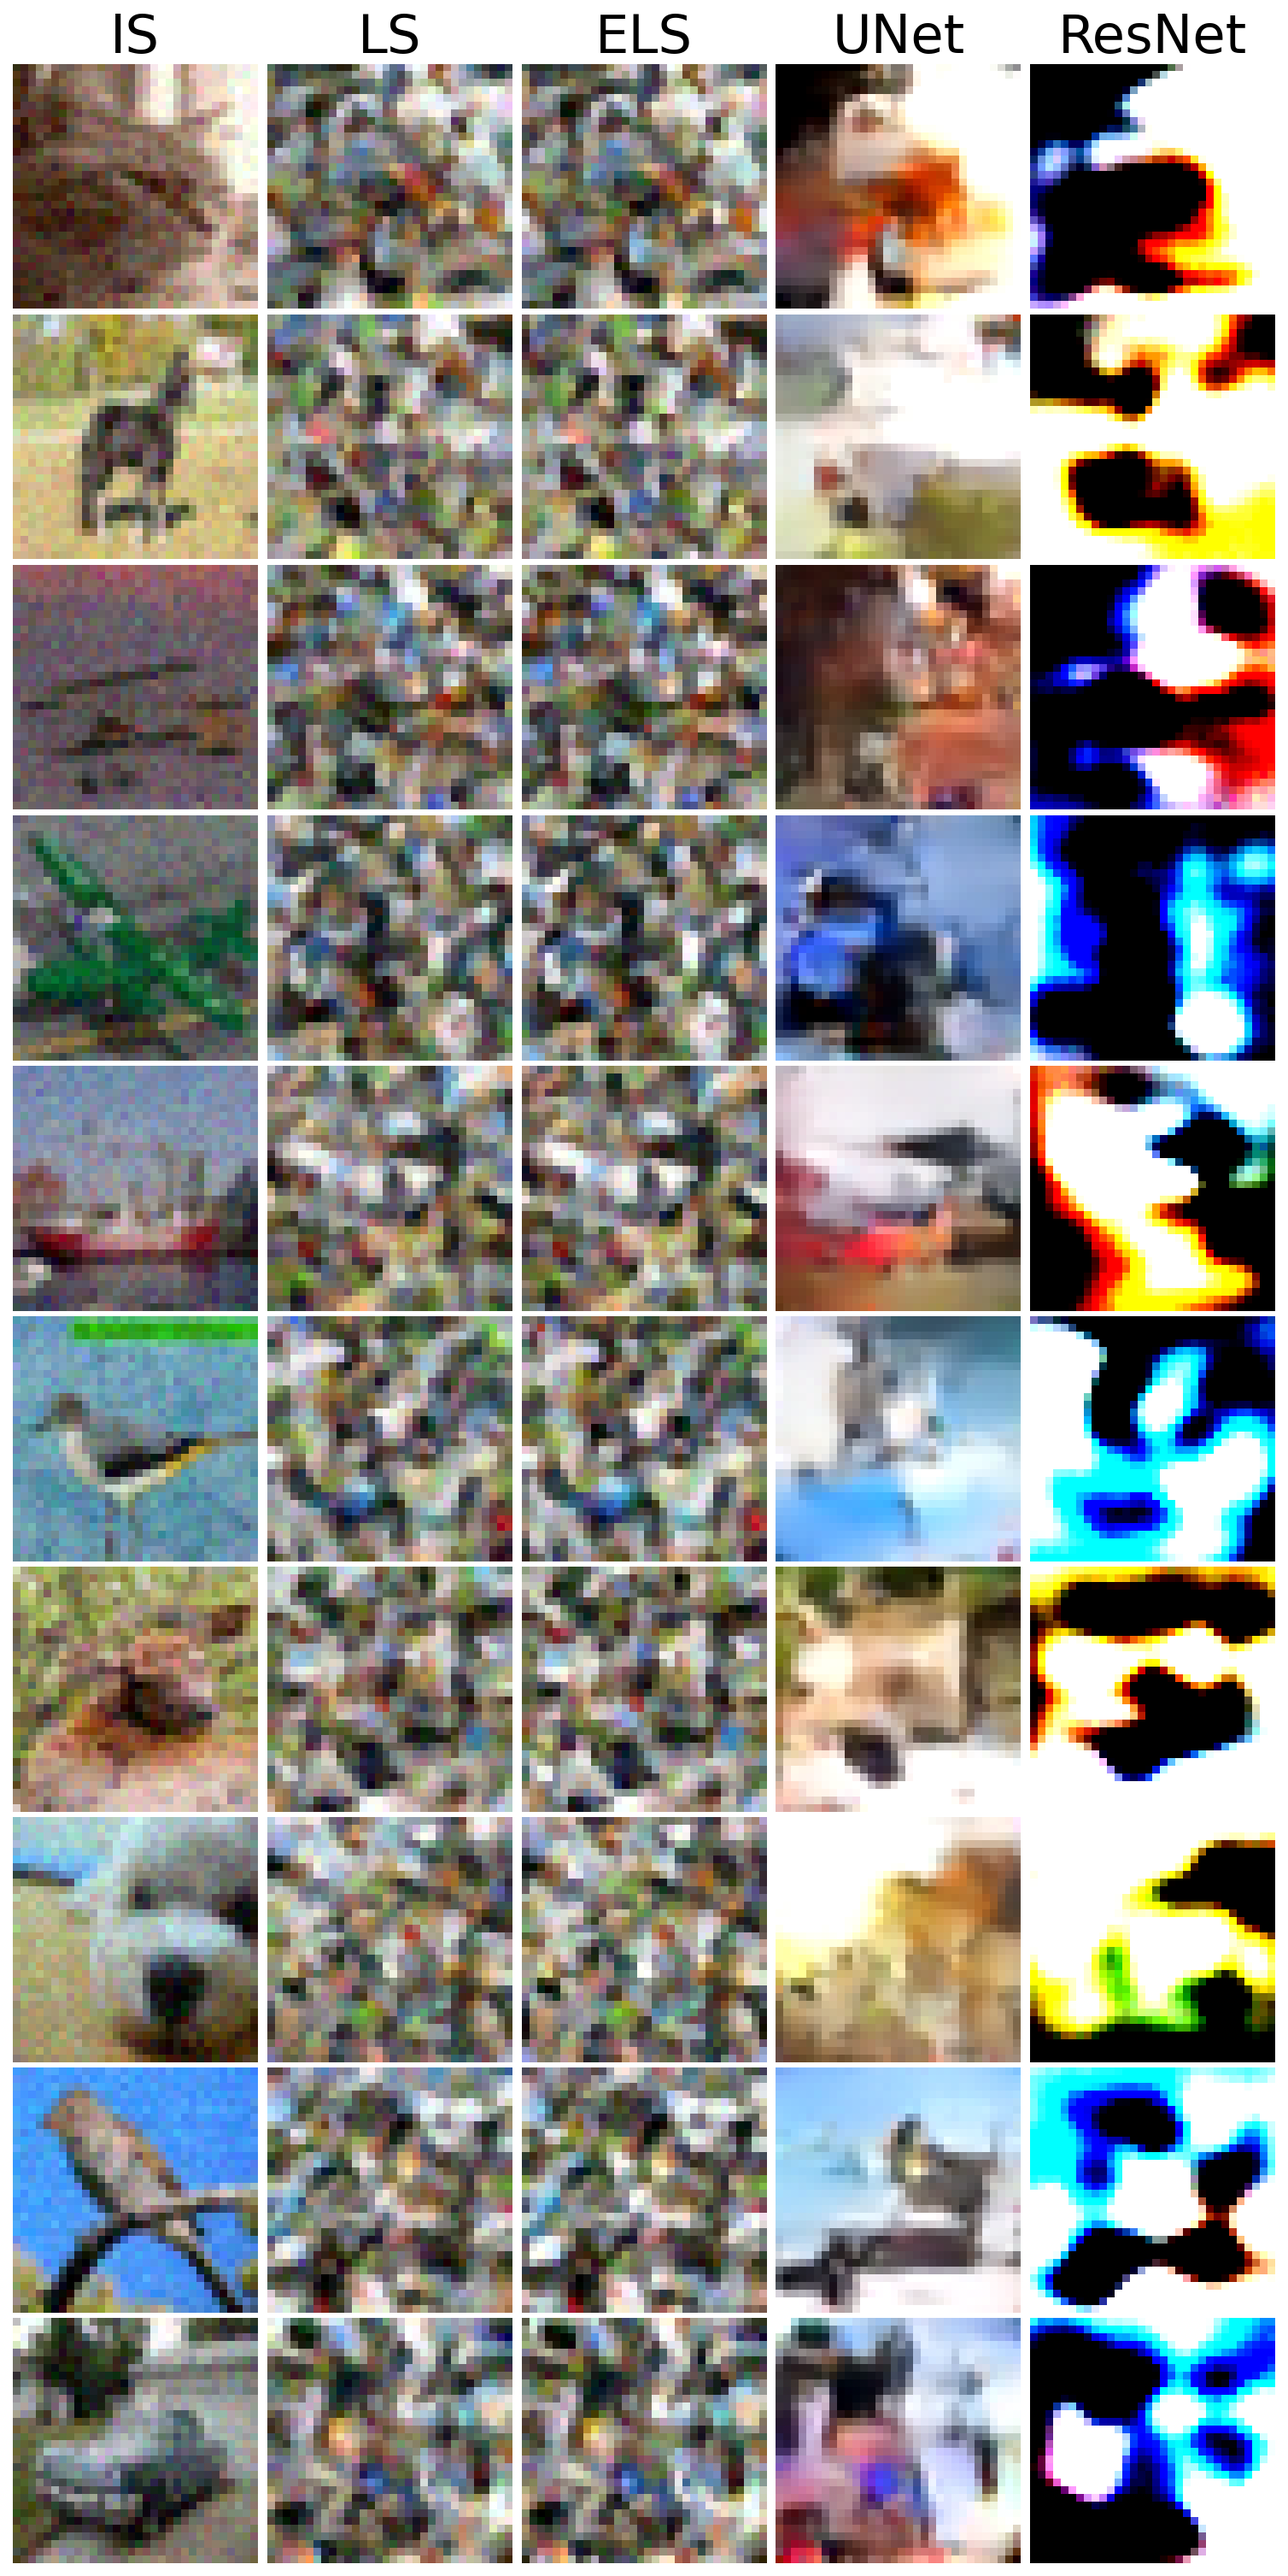
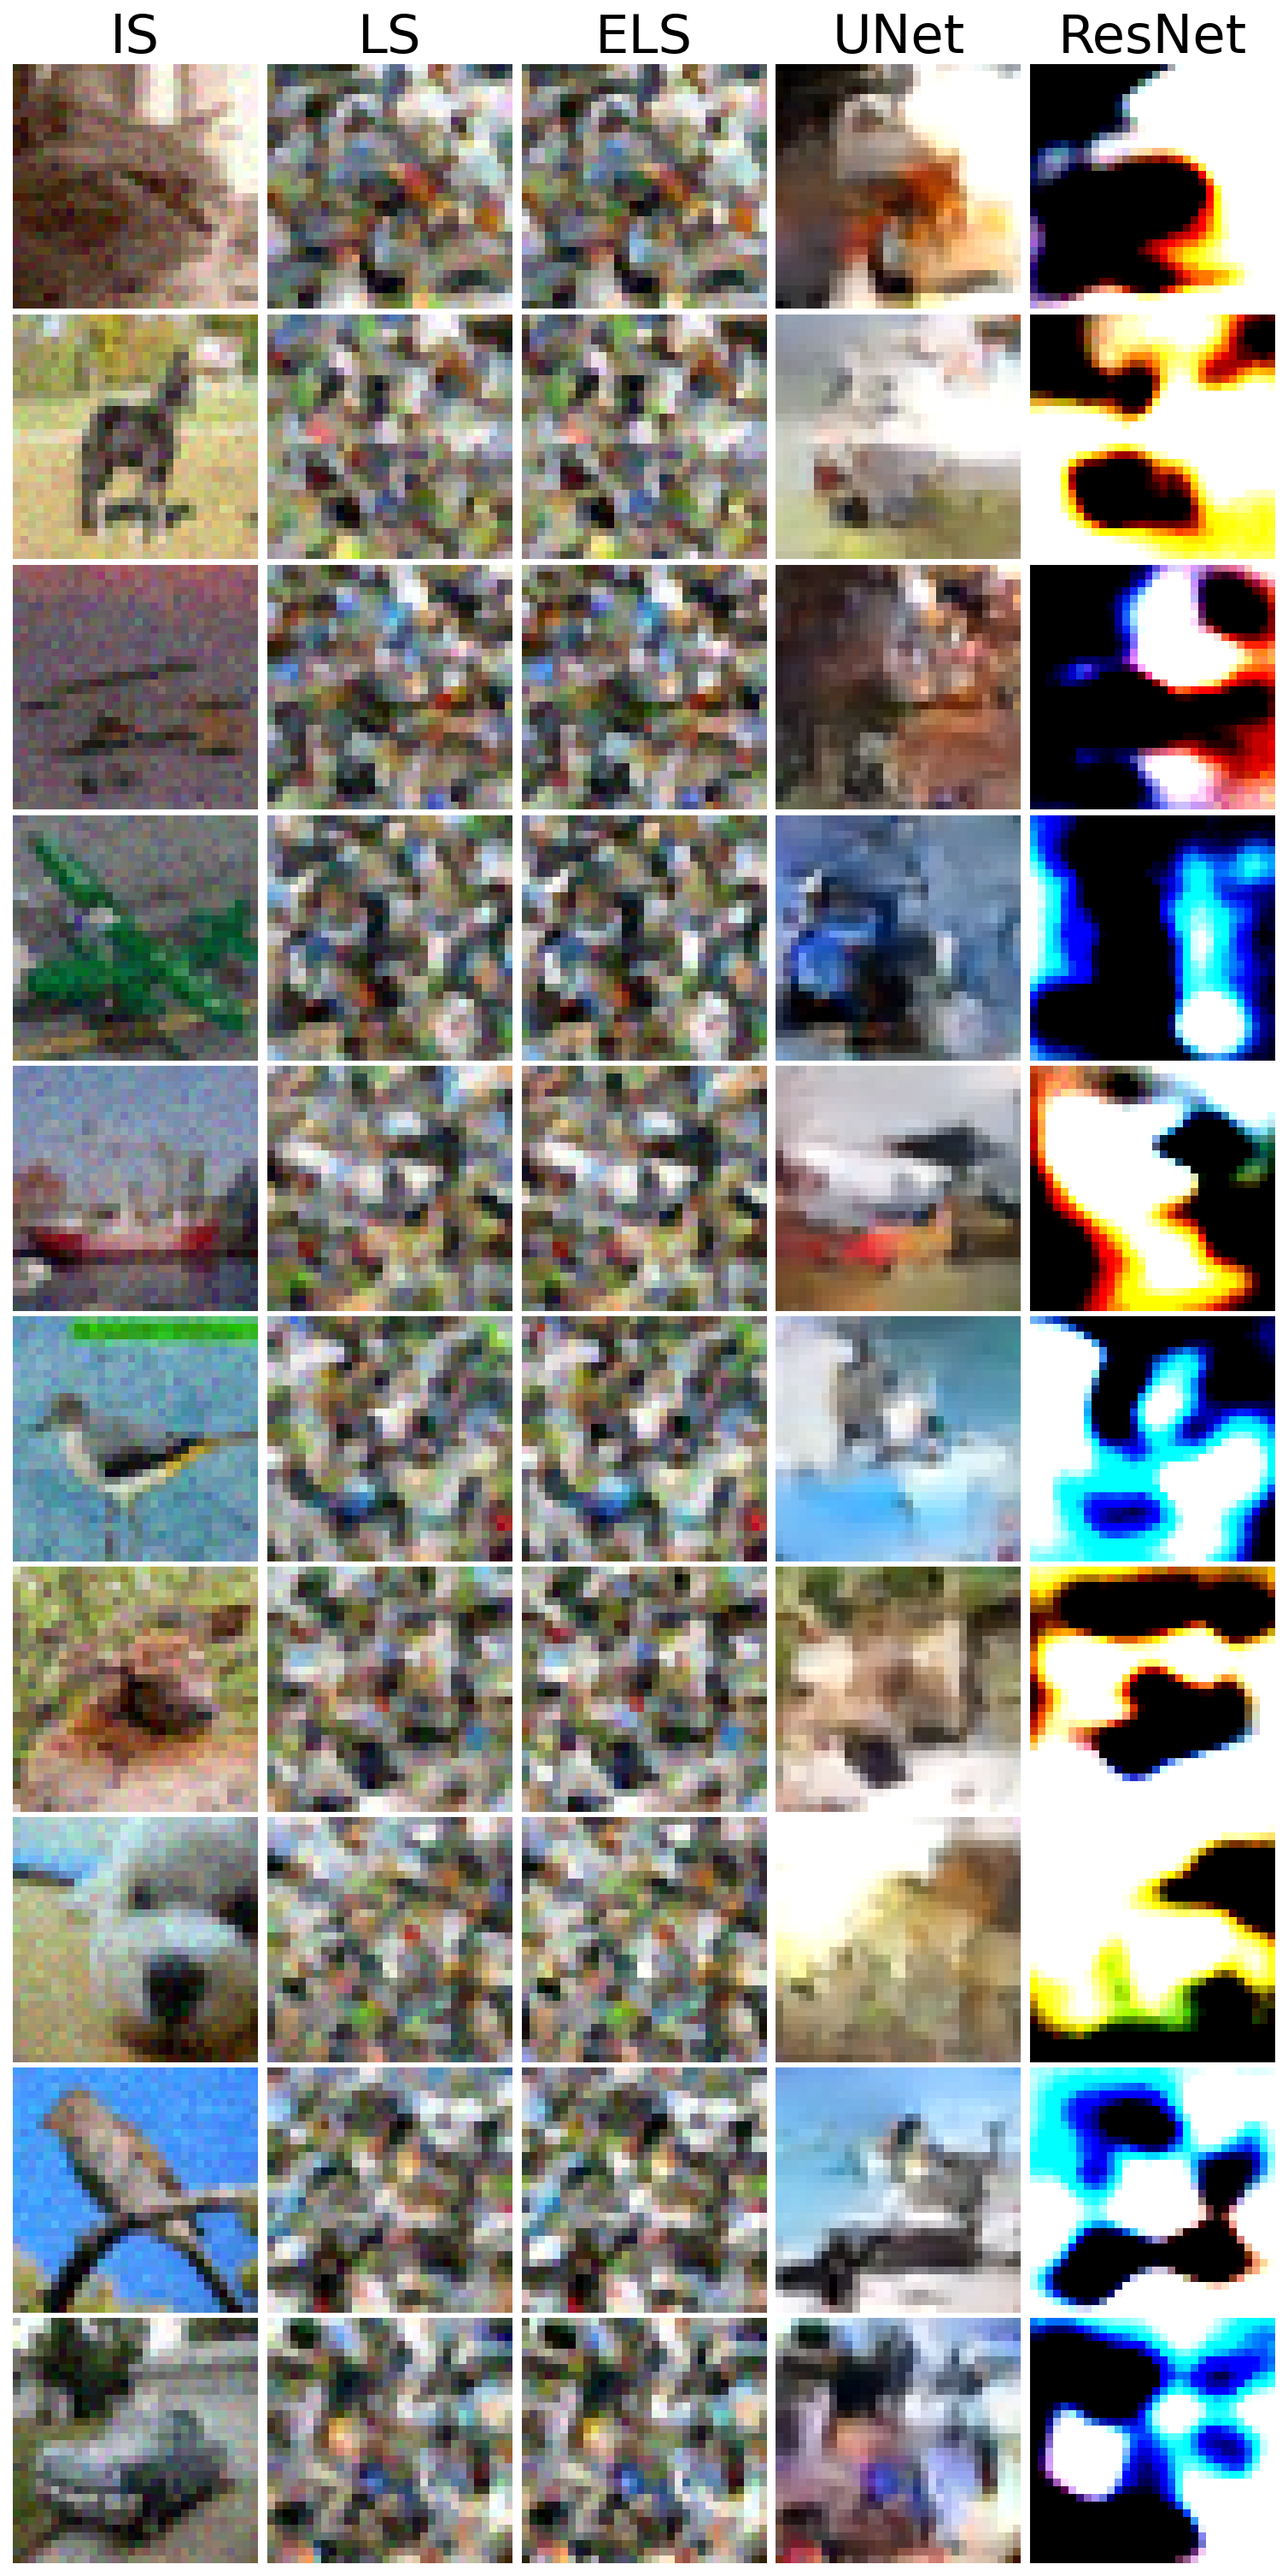
ddim-steps

Changed region(s): [[0.5922, 0.0, 0.9973, 0.998]]

diff --git a/sample.py b/sample.py
@@ -157,8 +157,8 @@ def parse_args() -> argparse.Namespace:
     parser.add_argument("--ls",  dest="local_score",             action="store_true", help="Sample LocalScoreMachine")
     parser.add_argument("--els", dest="equivariant_local_score", action="store_true", help="Sample EquivariantLocalScoreMachine")
     parser.add_argument("--seeds",        type=int, nargs="+", required=True, help="One or more seeds (run as a single batch)")
-    parser.add_argument("--machine-steps", type=int, default=20,     help="Sampling steps shared across all models and score machines (default: 20)")
-    parser.add_argument("--ddim-steps",   type=int, default=None,   help="DDIM sampling steps for neural models; overrides --machine-steps if set")
+    parser.add_argument("--machine-steps", type=int, default=20, help="Sampling steps for score machines (default: 20)")
+    parser.add_argument("--ddim-steps",   type=int, default=20, help="Sampling steps for DDIM neural models (default: 20)")
     return parser.parse_args()
 
 
@@ -194,7 +194,7 @@ def main() -> None:
         print(f"\n[{model_type.upper()} {model_id}]")
         model = load_ddim(args.dataset, model_type, model_id, device)
         x_in = x0_batch.to(device)   # [B, C, H, W]
-        ddim_steps = args.ddim_steps if args.ddim_steps is not None else args.machine_steps
+        ddim_steps = args.ddim_steps
         label = None
         if model.backbone.conditional:
             num_classes = model.backbone.embedding.class_embeddings.num_embeddings
